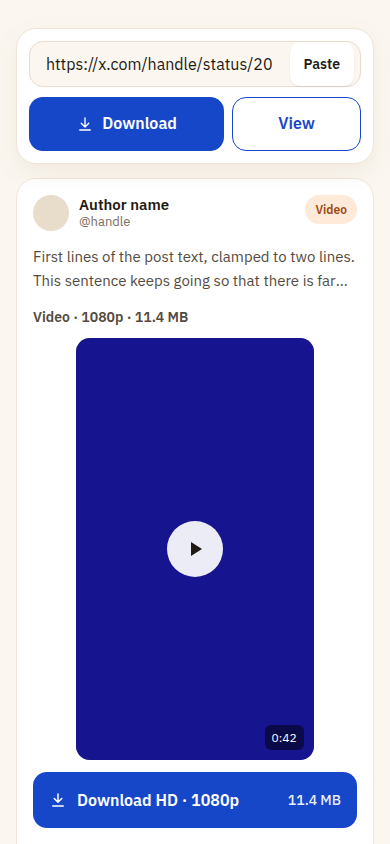
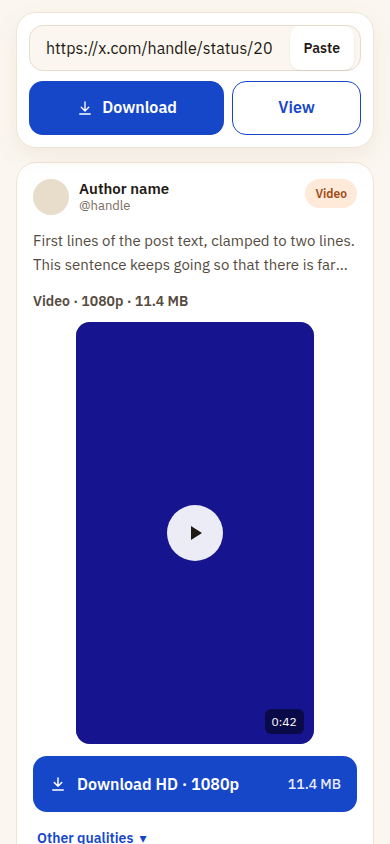
Design spec (delivery version with 4.2.1 / 5.2.1); phones scroll the link box to the top
Claude-Session: https://claude.ai/code/session_01K3FubQE425GSZUCvkpQ9Qg

Changed region(s): [[0.0615, 0.0308, 0.9538, 0.4313], [0.0615, 0.8318, 0.9231, 1.0], [0.4308, 0.5853, 0.5846, 0.7085]]

diff --git a/test/finder.test.js b/test/finder.test.js
@@ -294,8 +294,6 @@ function scrollSetup({ phone = true, reduced = false, dlBottom = 600 } = {}) {
     if (this.matches('.dl')) return { top: dlBottom - 56, bottom: dlBottom, height: 56 };
     return { top: 0, bottom: 0, height: 0 };
   };
-  const header = s.document.querySelector('.site-header');
-  Object.defineProperty(header, 'offsetHeight', { value: 64 });
   s.q('[data-input]').value = POST;
   return { s, scrolls };
 }
@@ -303,7 +301,7 @@ function scrollSetup({ phone = true, reduced = false, dlBottom = 600 } = {}) {
 test('phone: after a result, the link box is brought up and the main download button stays in the first screen', async () => {
   const { s, scrolls } = scrollSetup();
   await s.finder.runDownload();
-  assert.deepEqual(scrolls, [{ top: 236, behavior: 'smooth' }], 'link box lands one header-height below the top of the page content');
+  assert.deepEqual(scrolls, [{ top: 288, behavior: 'smooth' }], 'the link box lands at the top, so the hero scrolls out of view');
   const tall = scrollSetup({ dlBottom: 1200 });
   await tall.s.finder.runDownload();
   assert.deepEqual(tall.scrolls, [{ top: 292, behavior: 'smooth' }], 'scrolls further so the button fits, but keeps the link box on screen');
@@ -312,7 +310,7 @@ test('phone: after a result, the link box is brought up and the main download bu
 test('scrolling respects prefers-reduced-motion and never happens on computers', async () => {
   const reduced = scrollSetup({ reduced: true });
   await reduced.s.finder.runDownload();
-  assert.deepEqual(reduced.scrolls, [{ top: 236, behavior: 'auto' }]);
+  assert.deepEqual(reduced.scrolls, [{ top: 288, behavior: 'auto' }]);
   const desktop = scrollSetup({ phone: false });
   await desktop.s.finder.runDownload();
   assert.deepEqual(desktop.scrolls, []);

diff --git a/public/js/finder.js b/public/js/finder.js
@@ -277,8 +277,8 @@
       revealResult();
     }
 
-    // Phones: bring the link box up under the (scrolled-off) header's space and the card with its main
-    // download button into the first screen. Desktops show it all already, so nothing moves there.
+    // Phones: scroll the link box to the top (the hero scrolls out of view) and keep the card's main download
+    // button in the first screen. Computers show it all already, so nothing moves there.
     function revealResult() {
       var phone = options.isPhone ? options.isPhone() : !!(win.matchMedia && win.matchMedia('(max-width: 767px)').matches);
       if (!phone || !win.scrollTo) return;
@@ -287,9 +287,7 @@
       if (!box || !box.getBoundingClientRect) return;
       var scrollY = win.pageYOffset || 0;
       var inputTop = box.getBoundingClientRect().top + scrollY;
-      var header = doc.querySelector('.site-header');
-      var headerHeight = header && header.offsetHeight ? header.offsetHeight : 0;
-      var top = Math.max(0, inputTop - headerHeight);
+      var top = Math.max(0, inputTop - 12);
       if (button) {
         var needed = button.getBoundingClientRect().bottom + scrollY + 16 - win.innerHeight;
         top = Math.min(Math.max(top, needed), Math.max(0, inputTop - 8));

diff --git a/docs/design/DESIGN-SPEC.md b/docs/design/DESIGN-SPEC.md
@@ -2,6 +2,7 @@
 
 > 依据：关键词数据与新版产品规划（本文覆盖此前文档与画布中冲突的部分），以及上一轮交互评审意见。
 > 视觉风格不变：沿用「温度品牌风格」（奶油底 #FBF7F0、白卡片、主色 #1747C9 只用于可点击元素、暖橙 #FF8A4C 只做装饰；标题 Space Grotesk，正文 IBM Plex Sans；中文使用系统字体（PingFang SC、Microsoft YaHei、Noto Sans CJK SC），拉丁文字使用自托管的 Space Grotesk / IBM Plex Sans；OG 图仍用 Noto Sans SC 渲染）。
+> Logo：采用 B 方案（蓝底 #1747C9、白色 X、暖橙托盘），字标 Space Grotesk Bold。文件见 xput-logo-b.zip：xput-logo.svg（主图标）、favicon.svg（加粗简化版，用于 16/32px）、favicon-16/32.png、apple-touch-icon-180.png（满版方形，iOS 自动加圆角）、xput-logo-512.png。
 
 ---
 
@@ -100,10 +101,19 @@
 
 | | 视频 | 图片 | GIF |
 | --- | --- | --- | --- |
-| 预览 | 缩略图加播放按钮，点击在卡内静音播放 | 网格（1–4 张），点击全屏查看 | 自动循环播放（静音） |
-| 主操作 | 一个大按钮：Download HD · 1080p · [大小] | 手机：Save all to Photos（系统分享面板）；桌面：Download all (ZIP) | Download GIF (MP4) |
-| 次要操作 | 「Other qualities ▾」折叠，展开后列出其余清晰度 | 网格角标勾选部分图片；全屏查看中保存单张 | 说明文字：X 上的 GIF 以 MP4 存储，可在 WhatsApp / Telegram 中作为动图发送 |
-| 信息 | 时长、分辨率、文件大小 | 张数、原图尺寸 | 时长、文件大小 |
+| 预览 | 缩略图加播放按钮，点击在卡内静音播放；尺寸上限见 4.2.1 | 网格（1–4 张），点击全屏查看 | 自动循环播放（静音）；尺寸上限同视频 |
+| 主操作 | 一个大按钮：「Download HD · 1080p」/「下载高清 1080p」，文件大小在按钮右侧 | 手机：Save all to Photos（系统分享面板）；桌面：Download all (ZIP) | Download GIF (MP4) |
+| 次要操作 | 「Other qualities ▾」紧贴主按钮下方（间距 4px），与主按钮为同一组操作，展开后列出其余清晰度 | 网格角标勾选部分图片；全屏查看中保存单张 | 说明文字：X 上的 GIF 以 MP4 存储，可在 WhatsApp / Telegram 中作为动图发送 |
+| 信息 | 信息行「Video · 1080p · [大小]」；时长只显示在缩略图右下角，不在信息行重复 | 张数、原图尺寸 | 「GIF · [大小]」 |
+
+#### 4.2.1 预览尺寸上限（下载器以操作为先）
+
+- 原则：预览只用于确认「是这条视频」。解析成功后，在 1366×768 与 1440×900 桌面视口、390×844 手机视口中，主下载按钮必须位于首屏内（见画板 W_HomeParsed_D / W_HomeParsed_M）。
+- 桌面：视频与 GIF 块采用左右布局。左侧缩略图列固定宽 340px，横屏按原比例（16:9 约 191px 高）；竖屏视频最大高度 400px，在列内居中，两侧浅色留白。右侧依次为信息行、主下载按钮、「Other qualities」。混合媒体帖每个块都用这一布局，上下排列。
+- 手机：上下布局，预览宽度撑满卡片，最大高度 50vh（390×844 约 422px），竖屏视频不得超过该高度。
+- 手机解析成功后，页面平滑滚动，使输入框位于顶栏下方（Hero 区滚出视口），结果卡与主按钮完整进入首屏；桌面不滚动。
+- 结果卡中的帖子正文最多显示 2 行（line-clamp），完整正文在结果页查看。
+- 主按钮文字必须含动词：英文 "Download HD · 1080p"，中文「下载高清 1080p」。按钮不设固定宽高（min-height 56px），文字超长（+30%）时换行，不截断；文件大小保持在右侧且不换行。
 
 ### 4.3 混合媒体与特殊情况
 
@@ -147,11 +157,26 @@
 3. 阅读卡：作者、全文、媒体（视频可播放，图片可全屏）、发布日期、回复数量。
 4. 操作：
    - Share link（主）：手机调起系统分享面板；桌面复制并显示 "Link copied ✓"。
-   - Download media：在页面内打开下载抽屉（手机为底部抽屉，桌面为弹出层），内容复用第 4 节结果卡，不跳转。
+   - Download media：在页面内打开下载面板（手机为底部抽屉，桌面为居中弹窗），不跳转。结构见 5.2.1。
    - Open on X。
 5. 回流区块："Save or view another post" + 紧凑输入组件。
 6. 内链：Video Downloader、Twitter Viewer。
 7. 页脚。
+
+#### 5.2.1 下载面板（弹窗 / 抽屉）
+
+- 不显示大预览（页面背后已有同一视频），改为紧凑下载列表，每个媒体一行，按推文顺序：
+  - 视频行：左侧 72px 方形缩略图（右下角时长角标）｜中间「Video」与「1080p · 1:00 · [大小]」｜右侧主按钮「Download HD · 1080p」（手机为缩略图下方整行）；行下方紧跟「Other qualities ▾」。
+  - GIF 行：72px 缩略图（GIF 角标）｜「GIF · Saved as MP4 · [大小]」｜「Download GIF」。
+  - 图片行：标题「4 photos · original size」与「已选 N 张」；64px 缩略图可勾选；主按钮手机为「Save N to Photos」（系统分享面板），桌面为「Download N (ZIP)」。
+- 多媒体帖标题显示数量，如「Download media · 4 items」。
+- 尺寸：桌面弹窗宽 600px；高度随内容变化，最大为视口高度的 80%，超出时内容区内部滚动，标题与关闭按钮固定在顶部。手机为底部抽屉，最大高度 80vh，结构相同。
+- 交互与按钮状态（Downloading… / Saved ✓、iPhone / Android 提示条、Web Share）与首页结果卡完全一致。
+- 焦点与关闭：
+  - 打开时初始焦点放在第一个下载按钮上（键盘用户可直接回车下载）；焦点限制在弹窗内。
+  - Esc、点击遮罩、关闭按钮均可关闭；关闭后焦点回到页面上的「Download media」按钮。
+  - 焦点环只在键盘操作时显示（`:focus-visible`），鼠标与触屏打开时不显示；样式为 2px 主色描边、2px 外间距（`outline: 2px solid #1747C9; outline-offset: 2px`），不得比按钮本身更醒目。全站按钮、链接、输入框统一此规则。
+- 画板：W_Drawer_D（单视频、多媒体、图片帖、键盘焦点示意）、W_Drawer_M（单视频、多媒体、图片帖）。
 
 ### 5.3 结果页状态
 
@@ -334,6 +359,8 @@
 | 14 | 分享预览图（OG）模板 | 1200×630，纯文字 / 含媒体两种 |
 | 15 | 结果页中文界面（手机） | 检查中文排版 |
 | 16 | 精选可收录结果页（中英文，手机 + 桌面） | 按 7.6 |
+| 17 | 首页解析成功首屏（1440×900、390×844） | 验证主按钮在首屏内，见 4.2.1 |
+| 18 | 结果页下载弹窗 / 手机抽屉 | 按 5.2.1 |
 
 ---
 
